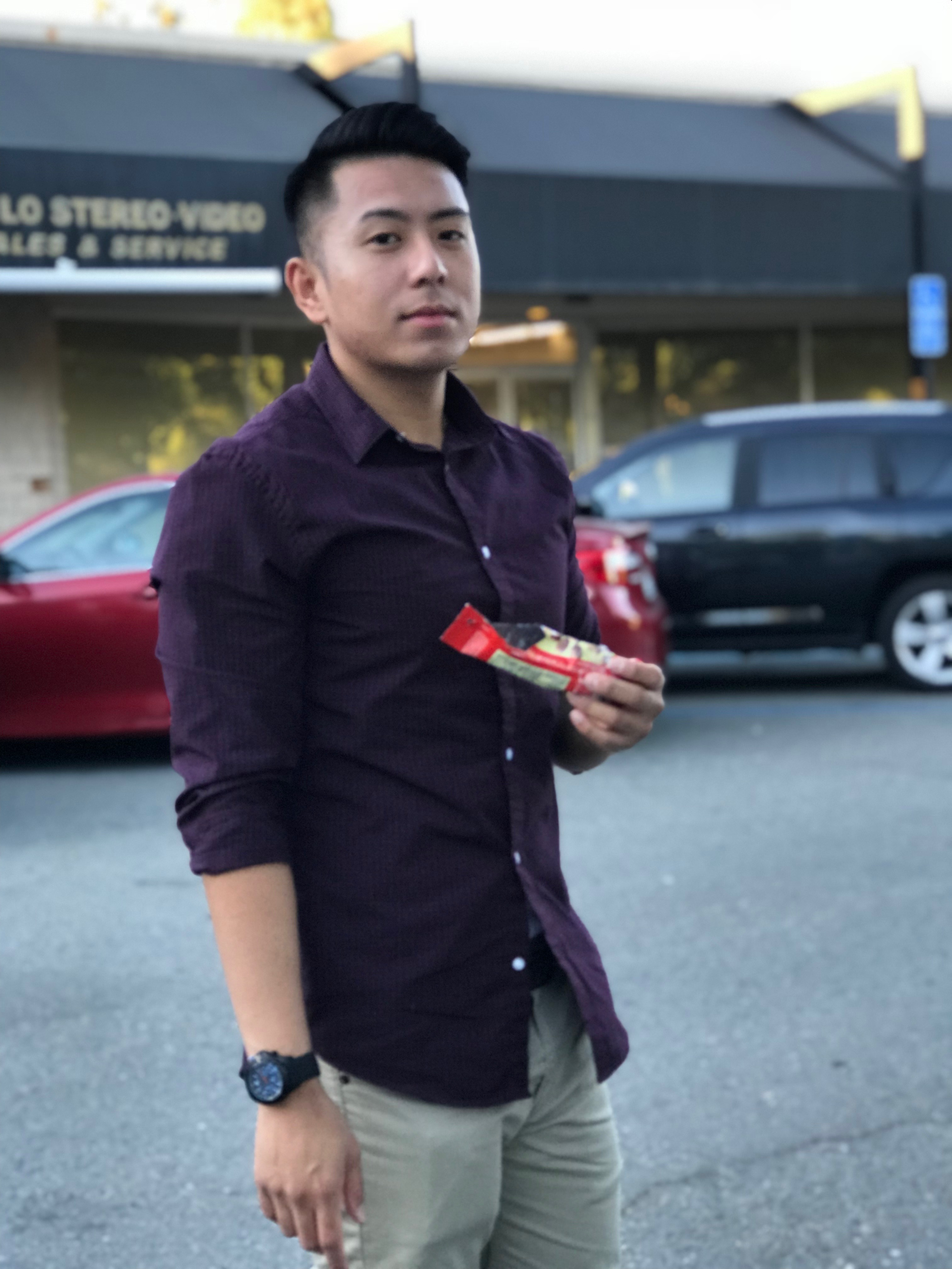
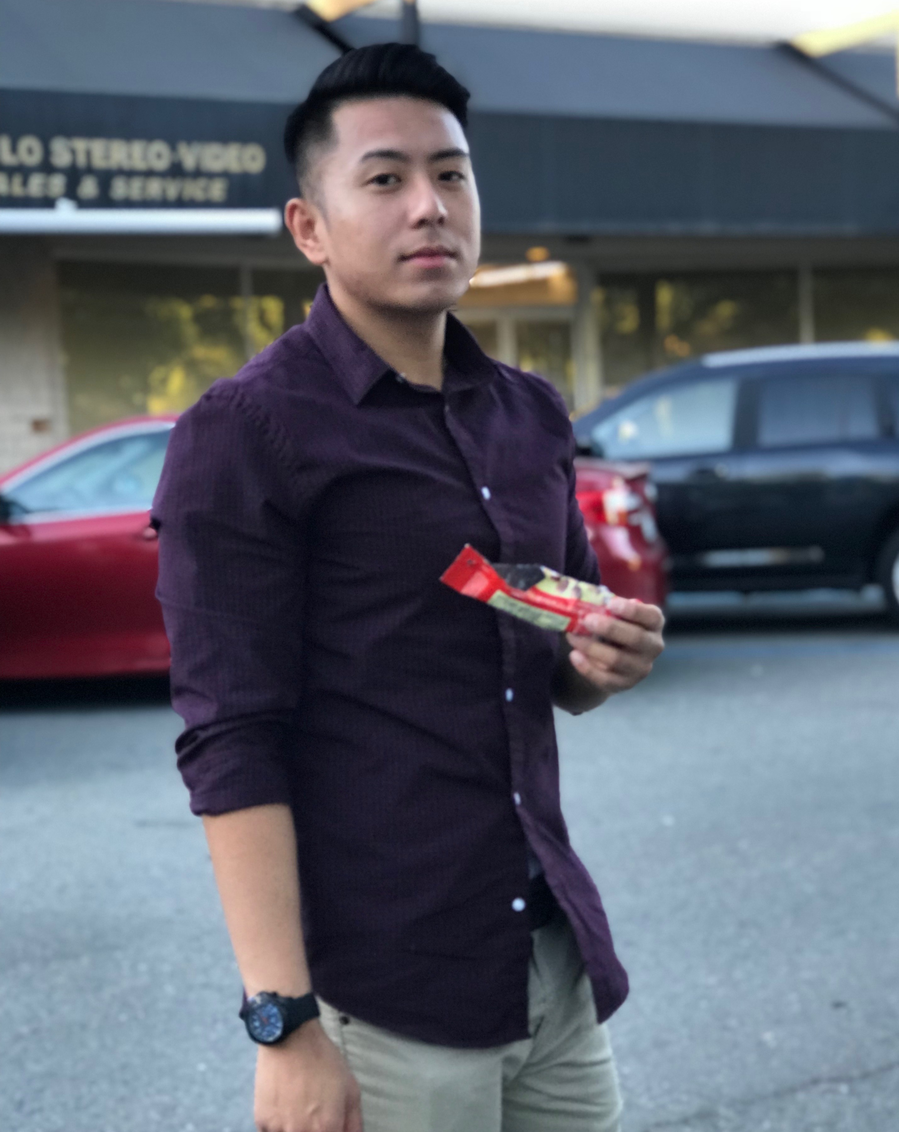
Modified photos to better fit all breakpoints, added 1 project into gallery, created About Me portion.

diff --git a/website/index.html b/website/index.html
@@ -49,8 +49,8 @@
 				<!-- Three -->
 					<section class="spotlight style1 orient-left content-align-left image-position-center onscroll-image-fade-in">
 						<div class="content">
-							<h2>Tempus adipiscing</h2>
-							<p>Lorem ipsum dolor sit amet, consectetur adipiscing elit. Morbi id ante sed ex pharetra lacinia sit amet vel massa. Donec facilisis laoreet nulla eu bibendum. Donec ut ex risus. Fusce lorem lectus, pharetra pretium massa et, hendrerit vestibulum odio lorem ipsum dolor sit amet.</p>
+							<h2>Technologies</h2>
+							<p></p>
 							<ul class="actions stacked">
 								<li><a href="#" class="button">Learn More</a></li>
 							</ul>
@@ -77,27 +77,27 @@
 				<!-- Five -->
 					<section class="wrapper style1 align-center">
 						<div class="inner">
-							<h2>Massa sed condimentum</h2>
-							<p>Lorem ipsum dolor sit amet, consectetur adipiscing elit. Morbi id ante sed ex pharetra lacinia sit amet vel massa. Donec facilisis laoreet nulla eu bibendum. Donec ut ex risus. Fusce lorem lectus, pharetra pretium massa et, hendrerit vestibulum odio lorem ipsum.</p>
+							<h2>Projects</h2>
+							<p>This is a gallery of several projects I have worked on!</p>
 						</div>
 
 						<!-- Gallery -->
 							<div class="gallery style2 medium lightbox onscroll-fade-in">
 								<article>
-									<a href="images/gallery/fulls/01.jpg" class="image">
-										<img src="images/gallery/thumbs/01.jpg" alt="" />
+									<a href="images/ui-project-week.png" class="image">
+										<img src="images/gallery/thumbs/ui-project-week copy.png" alt="" />
 									</a>
 									<div class="caption">
-										<h3>Ipsum Dolor</h3>
-										<p>Lorem ipsum dolor amet, consectetur magna etiam elit. Etiam sed ultrices.</p>
+										<h3>Smith & Jones Architects</h3>
+										<p>A fully responsive website built only using HTML/CSS/JS. Three pages with mobile/tablet/desktop breakpoints</p>
 										<ul class="actions fixed">
-											<li><span class="button small">Details</span></li>
+											<a href='https://affectionate-agnesi-00e911.netlify.com/'><li><span class="button small">Details</span></li></a>
 										</ul>
 									</div>
 								</article>
 								<article>
-									<a href="images/gallery/fulls/02.jpg" class="image">
-										<img src="images/gallery/thumbs/02.jpg" alt="" />
+									<a href="images/ui-project-week.png" class="image">
+										<img src="images/gallery/thumbs/ui-project-week copy.png" alt="" />
 									</a>
 									<div class="caption">
 										<h3>Feugiat Lorem</h3>
